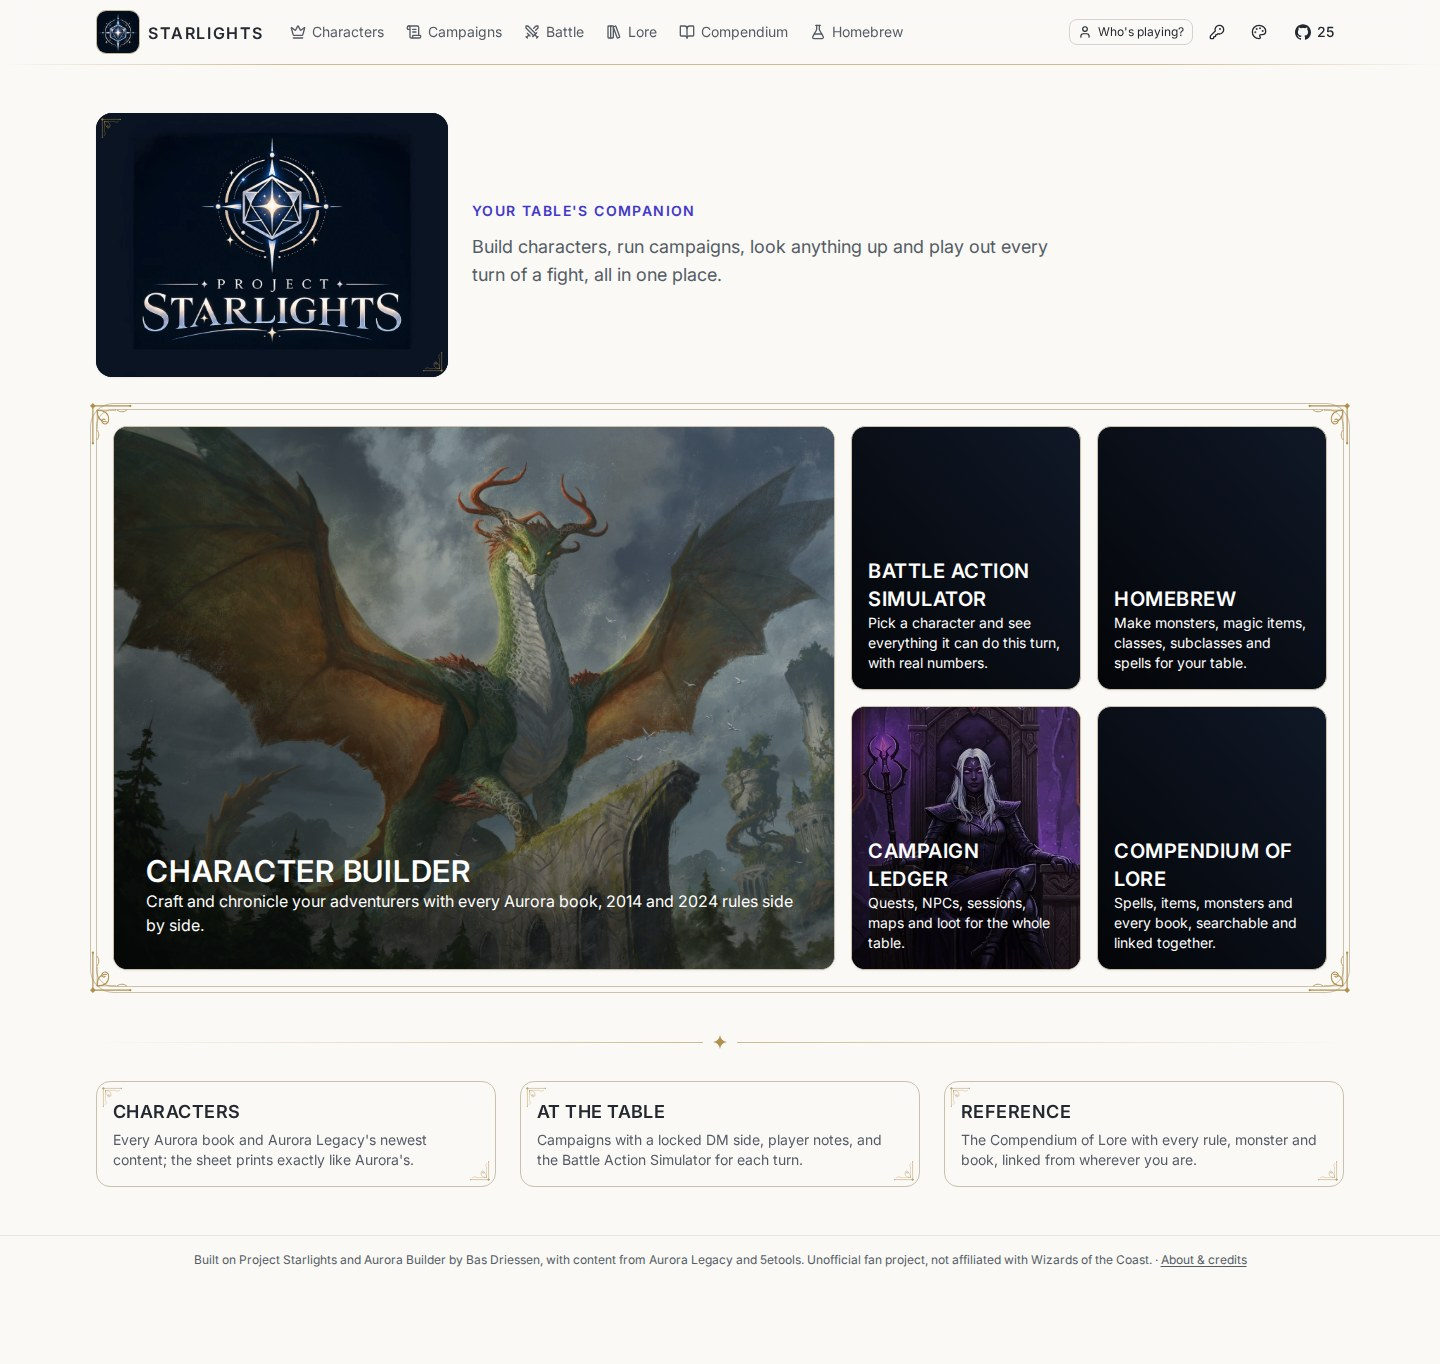
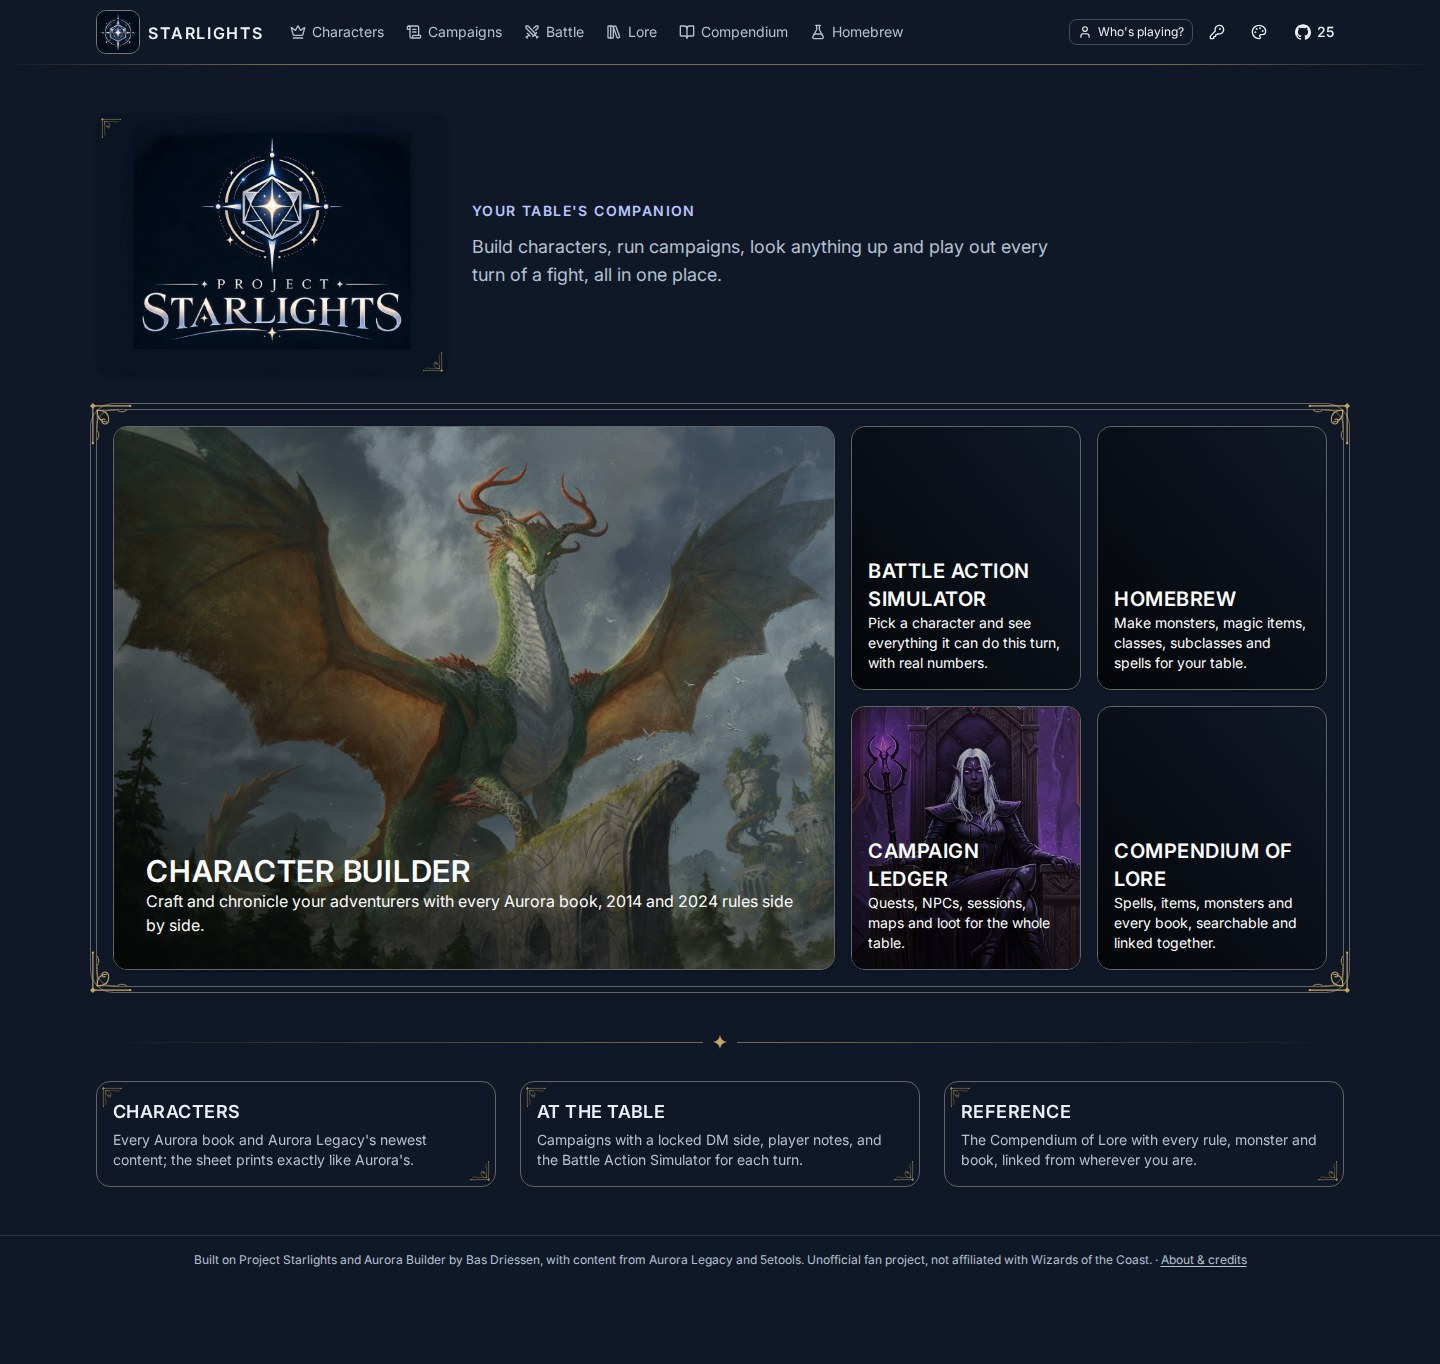
README: home page screenshots in the Midnight theme
The owner's choice for GitHub. Same shots as before (1440 px desktop, full page;
390 px phone, one screen), with the server's private /art/ pictures still blocked.

Claude-Session: https://claude.ai/code/session_01STZJEj9K5hAY15oSLfU6eq

diff --git a/README.md b/README.md
@@ -12,7 +12,7 @@
   &nbsp;
   <img src="assets/images/screenshots/home-phone.jpg" alt="The Starlights home page on a phone" width="28%">
 </p>
-<p align="center"><sub>The home page on a desktop and on a phone (Porcelain theme). A new install shows it like this; the
+<p align="center"><sub>The home page on a desktop and on a phone (Midnight theme). A new install shows it like this; the
 three plain tiles take pictures you add yourself.</sub></p>
 
 **Contents:** [What this fork adds](#what-this-fork-adds) · [Install](#install-with-docker) ·
